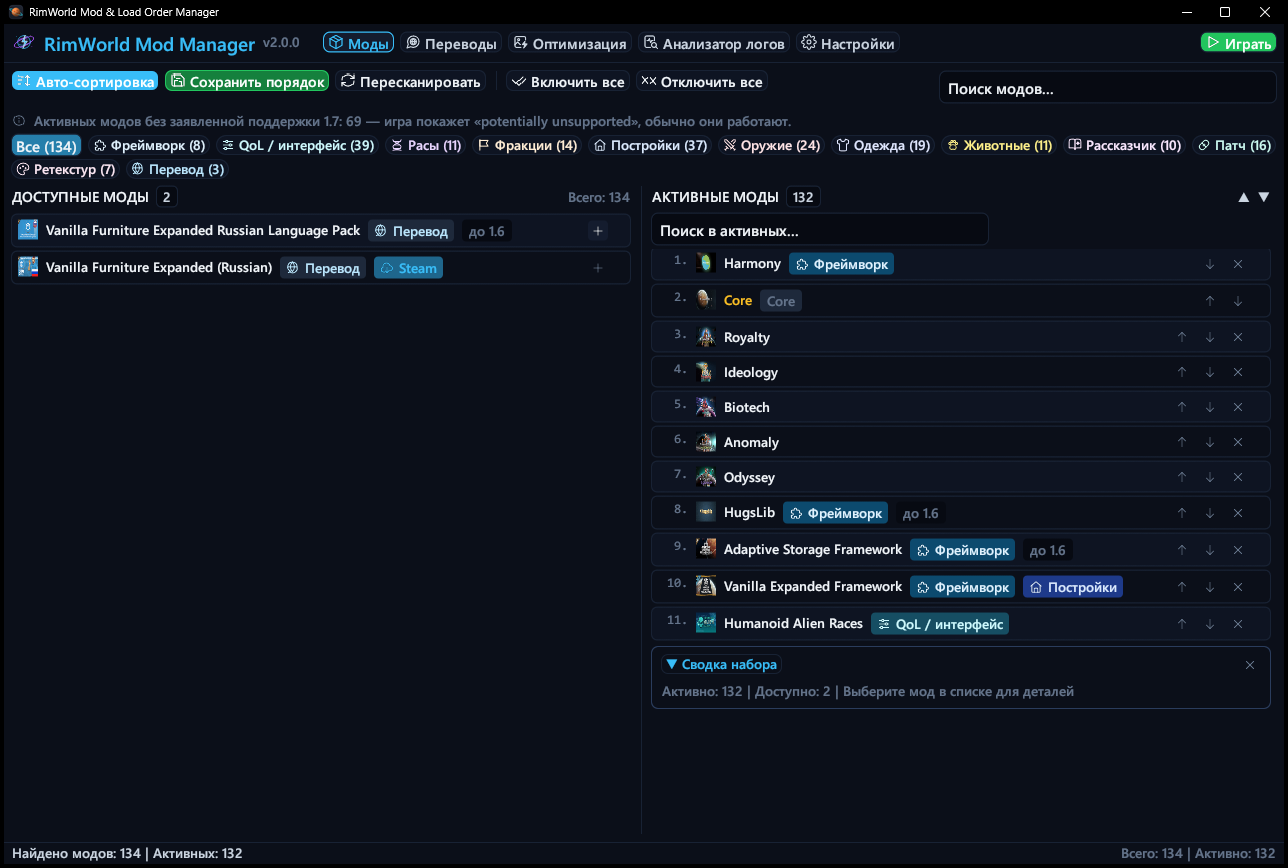
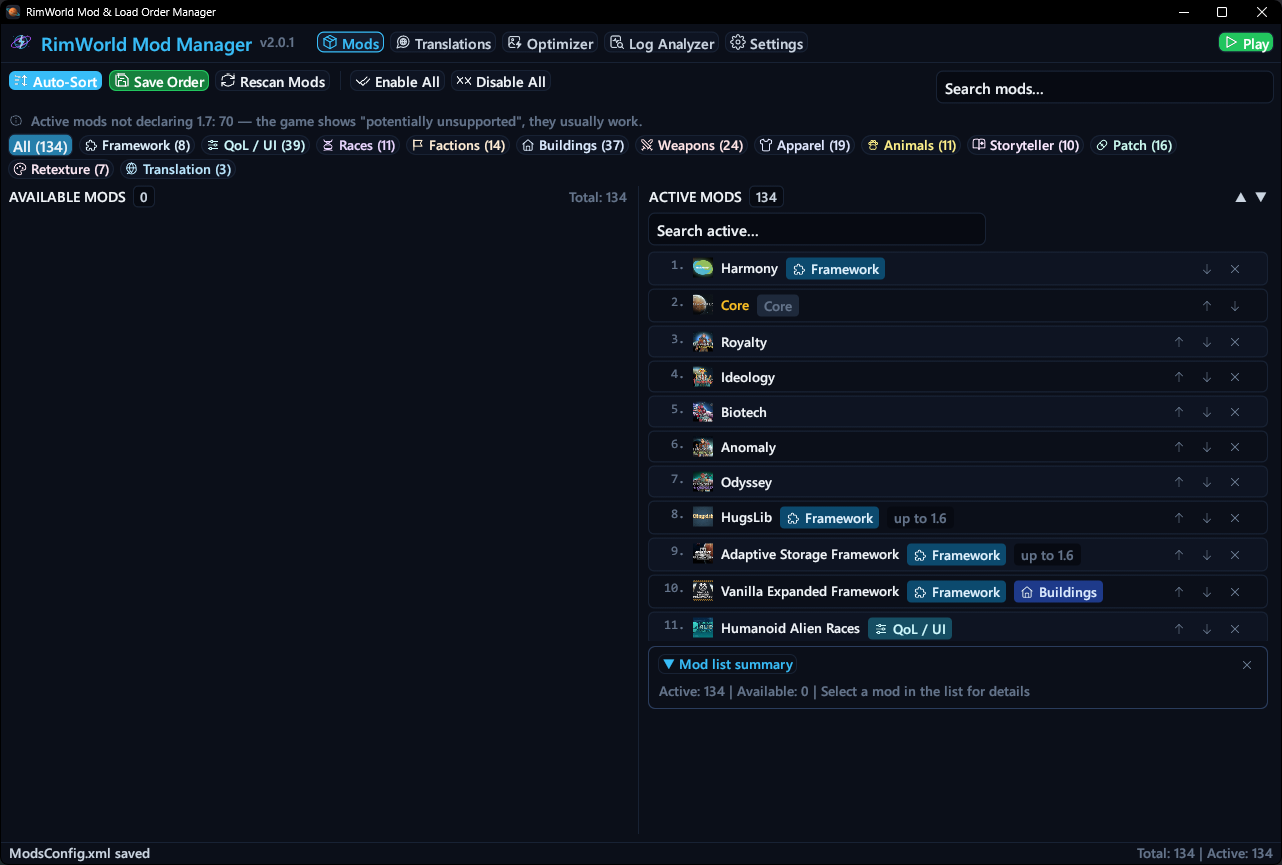
README: English screenshot, Russian one kept as screenshot-ru.png

diff --git a/README.md b/README.md
@@ -4,7 +4,9 @@
 
 *Mod and load order manager for RimWorld 1.6 and 1.7 (Windows): load order sorting with RimSort community rules, mod categories, dependency checks, translation search on Steam Workshop, DDS texture optimizer, Player.log analyzer. The interface is available in Russian and English.*
 
-![Главное окно](docs/screenshot.png)
+![Main window](docs/screenshot.png)
+
+Скриншот с русским интерфейсом: [docs/screenshot-ru.png](docs/screenshot-ru.png).
 
 ## Скачать
 
